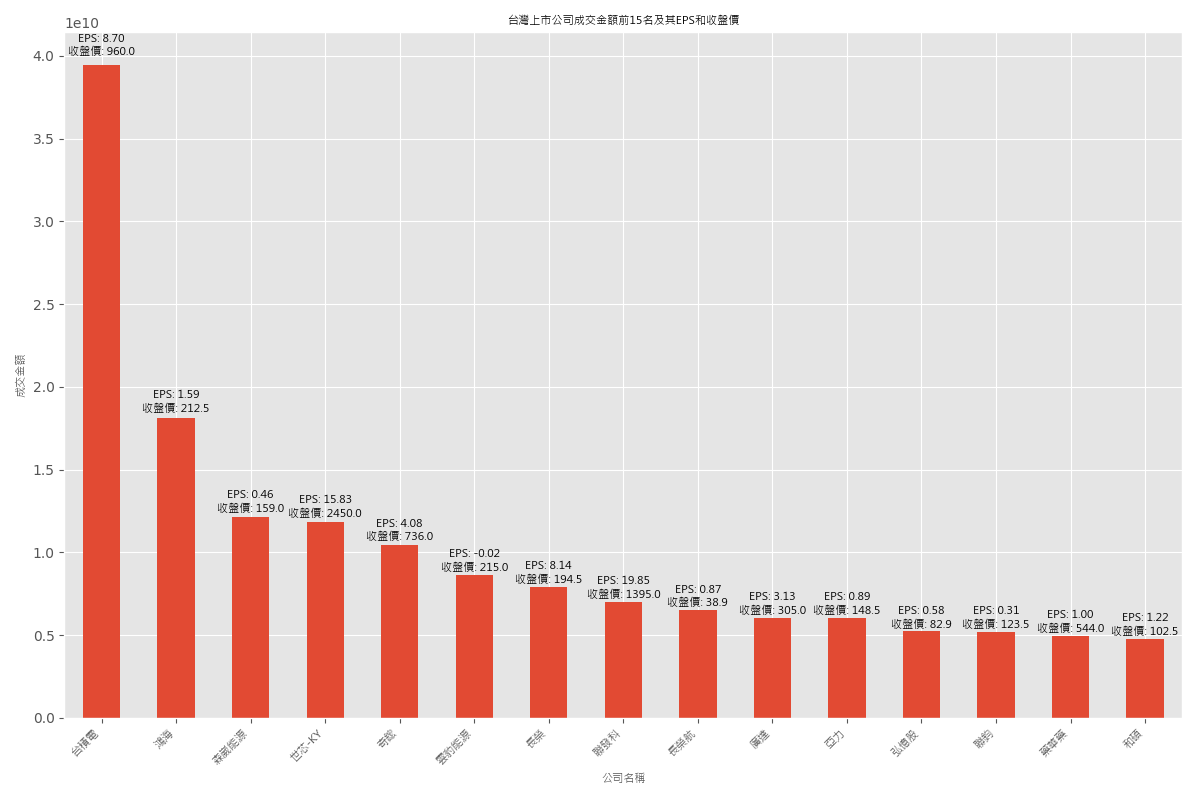
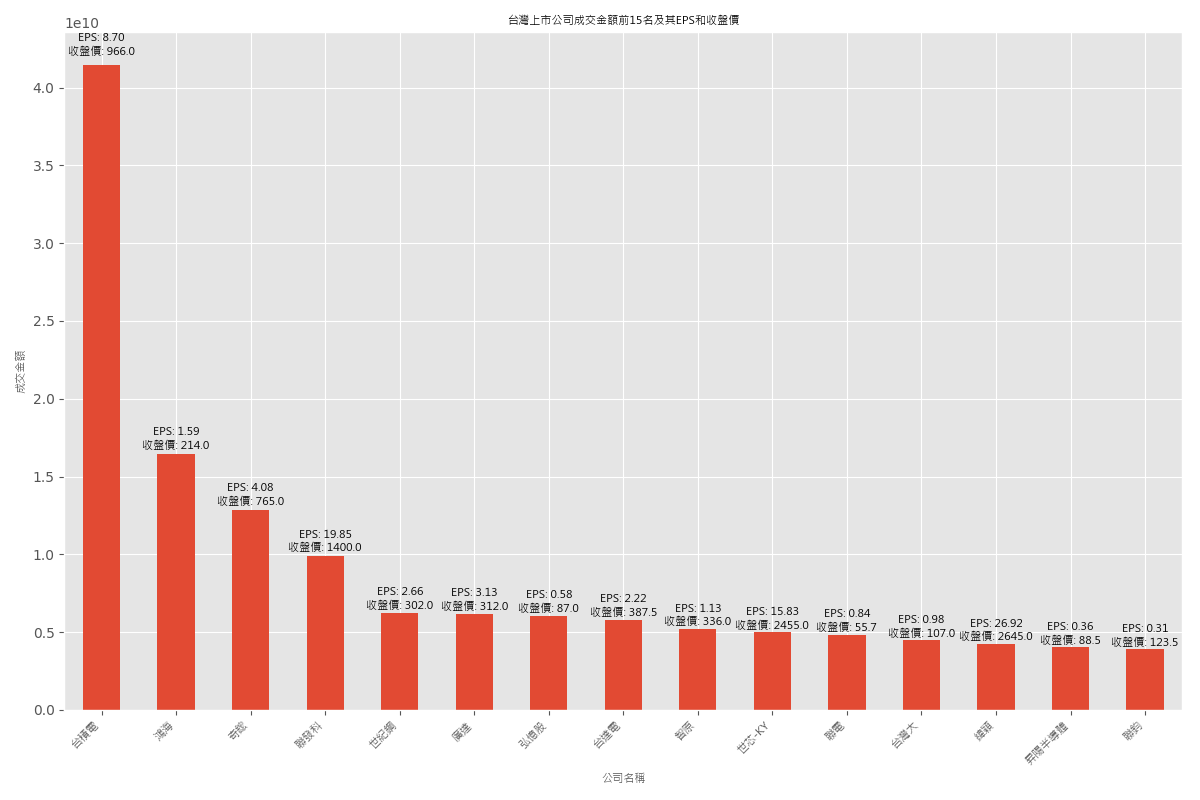
Update from GitHub Actions

diff --git a/README.md b/README.md
@@ -18,55 +18,55 @@ EPS從每年的年初開始計算。
 
 ![2317_3month_history](https://github.com/weitsunglin/quick_analyze_taiwan_hot_stock/blob/main/hot/2317_3month_history.png)
 
-### 股票代號：6806
-
-![6806_3month_history](https://github.com/weitsunglin/quick_analyze_taiwan_hot_stock/blob/main/hot/6806_3month_history.png)
-
-### 股票代號：3661
-
-![3661_3month_history](https://github.com/weitsunglin/quick_analyze_taiwan_hot_stock/blob/main/hot/3661_3month_history.png)
-
 ### 股票代號：3017
 
 ![3017_3month_history](https://github.com/weitsunglin/quick_analyze_taiwan_hot_stock/blob/main/hot/3017_3month_history.png)
-
-### 股票代號：6869
-
-![6869_3month_history](https://github.com/weitsunglin/quick_analyze_taiwan_hot_stock/blob/main/hot/6869_3month_history.png)
-
-### 股票代號：2603
-
-![2603_3month_history](https://github.com/weitsunglin/quick_analyze_taiwan_hot_stock/blob/main/hot/2603_3month_history.png)
 
 ### 股票代號：2454
 
 ![2454_3month_history](https://github.com/weitsunglin/quick_analyze_taiwan_hot_stock/blob/main/hot/2454_3month_history.png)
 
-### 股票代號：2618
+### 股票代號：9958
 
-![2618_3month_history](https://github.com/weitsunglin/quick_analyze_taiwan_hot_stock/blob/main/hot/2618_3month_history.png)
+![9958_3month_history](https://github.com/weitsunglin/quick_analyze_taiwan_hot_stock/blob/main/hot/9958_3month_history.png)
 
 ### 股票代號：2382
 
 ![2382_3month_history](https://github.com/weitsunglin/quick_analyze_taiwan_hot_stock/blob/main/hot/2382_3month_history.png)
 
-### 股票代號：1514
-
-![1514_3month_history](https://github.com/weitsunglin/quick_analyze_taiwan_hot_stock/blob/main/hot/1514_3month_history.png)
-
 ### 股票代號：3312
 
 ![3312_3month_history](https://github.com/weitsunglin/quick_analyze_taiwan_hot_stock/blob/main/hot/3312_3month_history.png)
 
+### 股票代號：2308
+
+![2308_3month_history](https://github.com/weitsunglin/quick_analyze_taiwan_hot_stock/blob/main/hot/2308_3month_history.png)
+
+### 股票代號：3035
+
+![3035_3month_history](https://github.com/weitsunglin/quick_analyze_taiwan_hot_stock/blob/main/hot/3035_3month_history.png)
+
+### 股票代號：3661
+
+![3661_3month_history](https://github.com/weitsunglin/quick_analyze_taiwan_hot_stock/blob/main/hot/3661_3month_history.png)
+
+### 股票代號：2303
+
+![2303_3month_history](https://github.com/weitsunglin/quick_analyze_taiwan_hot_stock/blob/main/hot/2303_3month_history.png)
+
+### 股票代號：3045
+
+![3045_3month_history](https://github.com/weitsunglin/quick_analyze_taiwan_hot_stock/blob/main/hot/3045_3month_history.png)
+
+### 股票代號：6669
+
+![6669_3month_history](https://github.com/weitsunglin/quick_analyze_taiwan_hot_stock/blob/main/hot/6669_3month_history.png)
+
+### 股票代號：8028
+
+![8028_3month_history](https://github.com/weitsunglin/quick_analyze_taiwan_hot_stock/blob/main/hot/8028_3month_history.png)
+
 ### 股票代號：3450
 
 ![3450_3month_history](https://github.com/weitsunglin/quick_analyze_taiwan_hot_stock/blob/main/hot/3450_3month_history.png)
-
-### 股票代號：6446
-
-![6446_3month_history](https://github.com/weitsunglin/quick_analyze_taiwan_hot_stock/blob/main/hot/6446_3month_history.png)
-
-### 股票代號：4938
-
-![4938_3month_history](https://github.com/weitsunglin/quick_analyze_taiwan_hot_stock/blob/main/hot/4938_3month_history.png)
 
